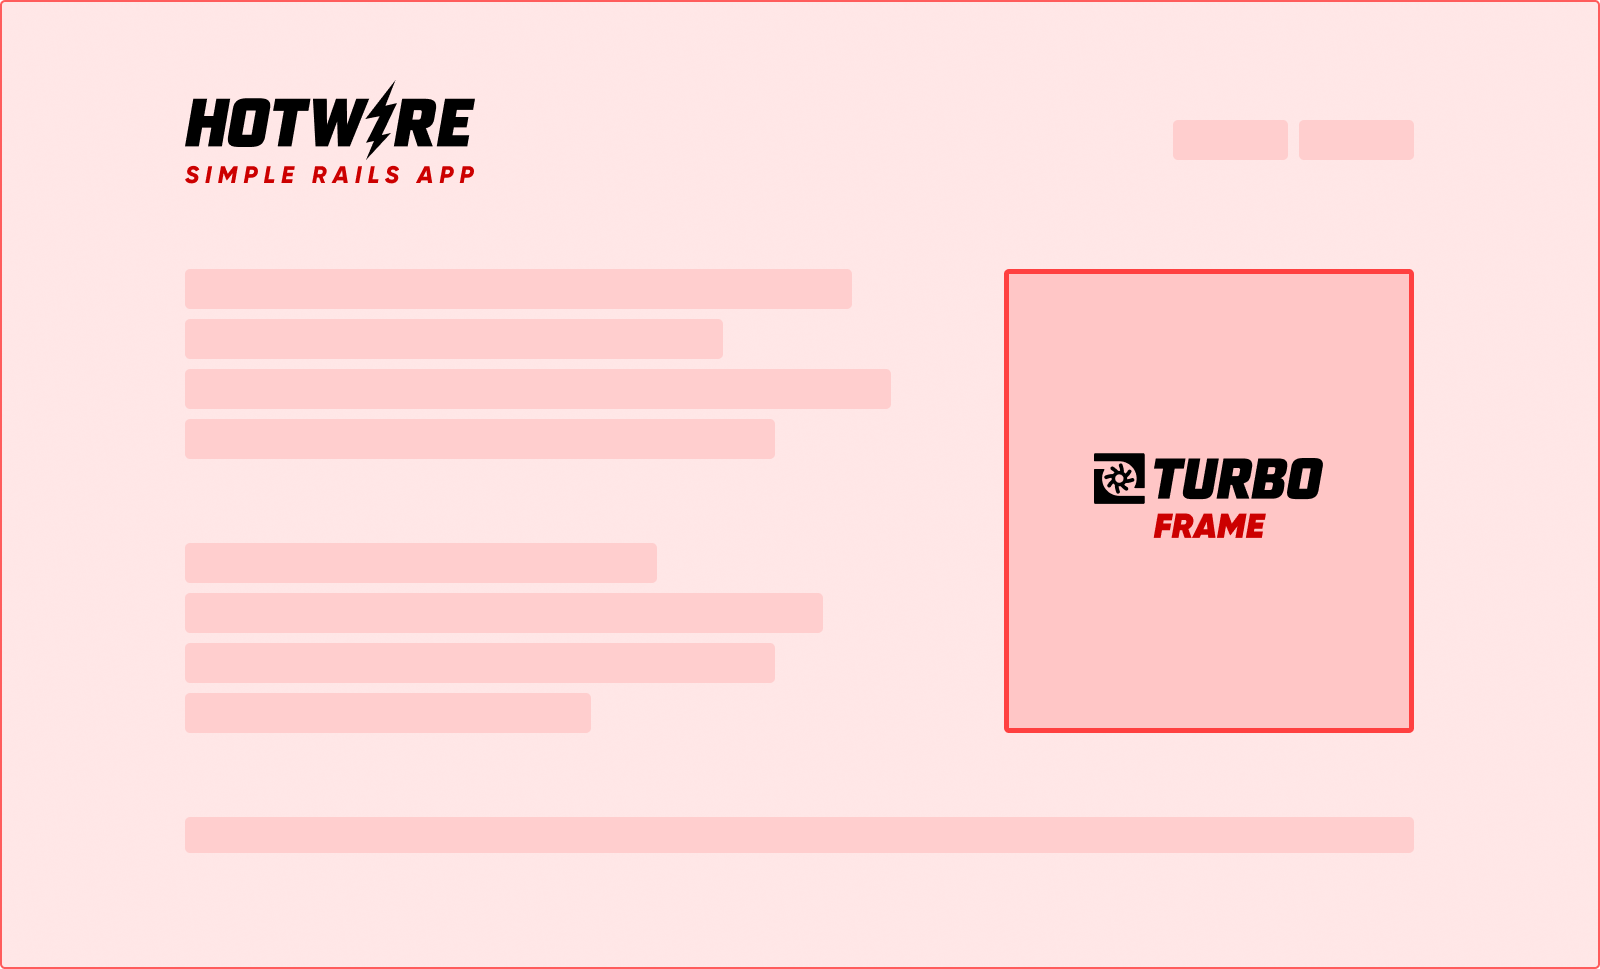
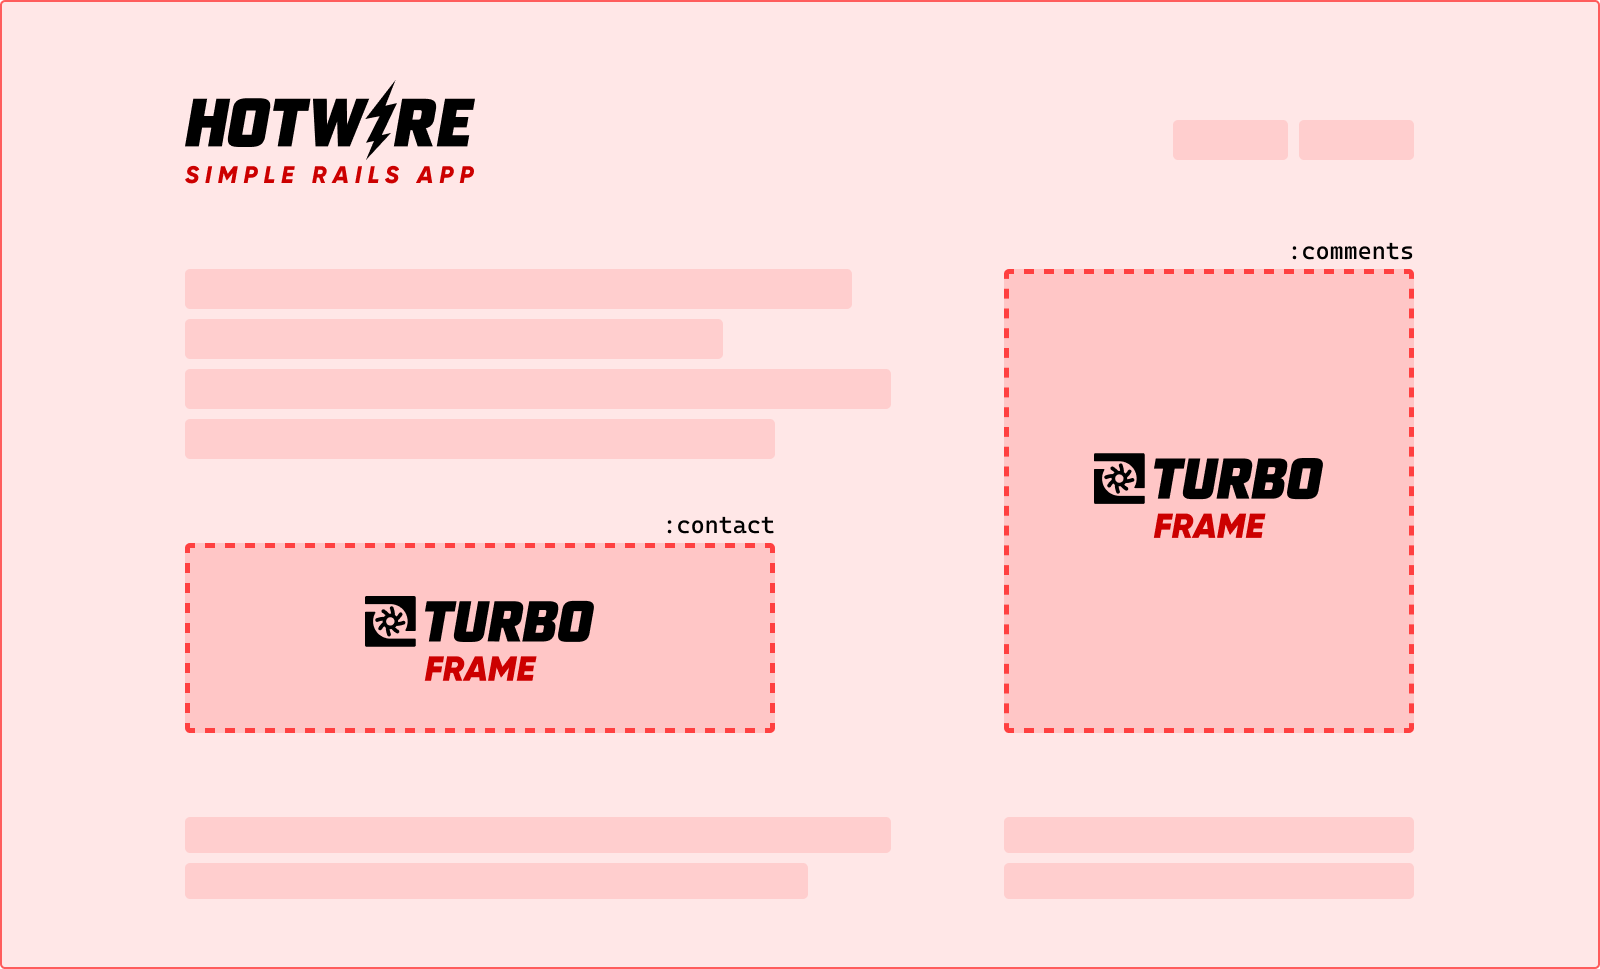
Almost finish the article

diff --git a/content/blog/my-thoughts-on-using-turbo-with-rails/index.md b/content/blog/my-thoughts-on-using-turbo-with-rails/index.md
@@ -5,7 +5,7 @@ description: I want to share my views on using Turbo with Rails.
 thumbnail: "./thumbnail.jpg"
 author: "Maciej Biel"
 authorPhoto: "./author.jpg"
-readTime: "5"
+readTime: "13"
 ---
 
 I started using Turbo with Rails half a year ago. I implemented Turbo in two of my projects (side and commercial one) and I have some initial thoughts about it.
@@ -31,15 +31,24 @@ If we want to update only a part of the page or add some interactivity, we need 
 
 ## What Turbo is?
 
-Turbo is a small and simple JavaScipt library, which consists of three major parts.
+<br>
 
-### Turbo Drive
-
-Turbo Drive is a main part of Turbo. Take a look at the flowchart below.
+![Hotwire logos](./hotwire.png)
 
 <br>
 
-![MPA](./turbo-drive.png)
+
+The frontend in **Rails** from version 7 is closely integrated with three JavaScript libraries: [**Turbo**](https://turbo.hotwired.dev/), [**Stimulus**](https://stimulus.hotwired.dev/) and [**Strada**](https://strada.hotwired.dev/), which all combined are called [**Hotwire**](https://hotwired.dev/). They are developed and maintained by [37signals](https://dev.37signals.com/).
+
+**Turbo** is a small and simple JavaScipt library, which consists of three major parts.
+
+### Turbo Drive
+
+[Turbo Drive](https://turbo.hotwired.dev/handbook/drive) is a main part of Turbo. Take a look at the flowchart below.
+
+<br>
+
+![Turbo Drive](./turbo-drive.png)
 
 <br>
 
@@ -56,13 +65,15 @@ Browsing **GitHub repositories** is a great example of a Turbo Drive in action (
 
 ### Turbo Frames
 
+[Turbo Frames](https://turbo.hotwired.dev/handbook/frames) are related to the client side.
+
 When using Turbo Drive, by default it replaces the entire `<body>` with each response. We are not limited to this behavior, because thanks to Turbo Frames we can:
 - Decompose our page and **replace smaller parts of the page** wrapped with frames.
 - Defer **load of a page** from our application inside the frame.
 
 <br>
 
-![MPA](./turbo-frame.png)
+![Turbo Frame](./turbo-frame.png)
 
 <br>
 
@@ -77,14 +88,14 @@ Turbo uses custom HTML element `<turbo-frame>` to define a frame.
 </turbo-frame>
 ```
 
-ERB syntax example:
+ERB syntax example.
 ```ruby
 <%= turbo_frame_tag :comments, src: comments_path(@post) do %>
   <%= t(".loading") %>
 <% end %>
 ```
 
-It all comes down to the **ID's** from the **DOM**.
+It all comes down to the **IDs** from the **DOM**.
 
 Each DOM element must have a **unique ID**. If the ID matches with the ID of Turbo Frame from server response, some actions by Turbo can be performed, like replacing or appending the content (more on actions later).
 
@@ -92,27 +103,239 @@ Turbo offers a wide range of **customizations for Turbo Frames**, whether the wh
 
 ### Turbo Streams
 
+[Turbo Streams](https://turbo.hotwired.dev/handbook/streams) are related to the server side.
+
+Turbo Stream is a **response from the server**, which contains one or more `<turbo-frame>` tags. Consider this as a set of changes to the DOM, which Turbo will perform.
+
+<br>
+
+![MPA](./turbo-stream.png)
+
+<br>
+
+Turbo offers seven possible **actions**: `append`, `prepend`, `replace`, `update`, `remove`, `before`, `after`.
+
+#### Turbo Stream in Rails
+
+Let's assume that we have a `SurveysController` controller and we have created a new poll using the `#create` method.
+
+Rails offers a convenient way to respond to different formats. On the client side, Turbo attaches a header `Accept: text/vnd.turbo-stream.html` to the request, so the server can respond to it with a Turbo Stream.
 ```ruby
-<%= turbo_stream.remove "request-#{@friend_request.id}" %>
+# app/controllers/surveys_controller.rb
 
-<%= turbo_stream.update :flash,
-                        partial: "shared/dash_flash" %>
+...
 
-<%= turbo_stream.update :outgoing_requests,
-                        partial: "friend_requests/outgoing_requests",
-                        locals: { outgoing: @outgoing } %>
-
-<%= turbo_stream.update :dash_pagination,
-                        partial: "shared/dash_pagination",
-                        locals: { pagy: @pagy_outgoing } %>
+respond_to do |format|
+  format.turbo_stream
+  format.html do
+    redirect_to survey_path, flash: { success: t(".success") }
+  end
+end
 ```
 
-Lorem ipsum dolor sit amet, consectetur adipiscing elit. Donec auctor, nisl eget ultricies ultricies, nunc nisl ultricies nunc, quis ultricies nisl nisl eget nisl. Donec auctor, nisl eget ultricies ultricies, nunc nisl ultricies nunc, quis ultricies nisl nisl eget nisl.
+This is a Turbo stream template file `create.turbo_stream.erb` with specified actions (Rails app will automatically pick up this template file when responding as a  `turbo_stream`).
 
-### Hotwire and Rails
+The first action will render the form again with optional validation errors. The second action will replace the frame with the reCAPTCHA challange.
+```ruby
+# app/views/surveys/create.turbo_stream.erb
 
-The frontend in Rails 7+ is closely integrated with three JavaScript libraries: [**Turbo**](https://turbo.hotwired.dev/), [**Stimulus**](https://stimulus.hotwired.dev/) and [**Strada**](https://strada.hotwired.dev/), which all combined are called [**Hotwire**](https://hotwired.dev/). They are developed and maintained by [37signals](https://dev.37signals.com/).
+<%= turbo_stream.replace dom_id(@survey),
+                         partial: "form",
+                         locals: { model: @survey } %>
 
-All of them are intended to be framework agnostic, but they work best with Rails. Moreover, most of the tutorials and examples are suited for Rails.
+<%= turbo_stream.replace 'recaptcha', partial: "challange" %>
+```
 
-This is only brief explanation of Turbo, for detailed explanation and deep dive, check out [documentation](https://turbo.hotwired.dev/handbook/introduction), [this article](https://www.writesoftwarewell.com/turbo-drive-essentials/) or [this guide](https://www.hotrails.dev/turbo-rails).
+Below we can see a raw HTTP response from the server. It may contain multiple Turbo Streams with different actions and targets.
+
+On the client side, turbo does the following:
+- Looks through the whole server response.
+- Matches the turbo stream IDs from response with the IDs from the DOM.
+- Performs some actions specified by the server.
+
+Turbo will only render these frames, which match the IDs from the DOM. The rest of the targets from the response will be ignored.
+```html
+HTTP/1.1 200 OK
+Content-Type: text/vnd.turbo-stream.html
+...
+
+<!-- Regular HTML -->
+
+<turbo-stream action="replace" target="new_survey">
+  <template>
+    ...
+  </template>
+</turbo-stream>
+
+<!-- Regular HTML -->
+
+<turbo-stream action="replace" target="recaptcha">
+  <template>
+    ...
+  </template>
+</turbo-stream>
+```
+
+#### Broadcasting live updates
+
+Turbo also allows us to broadcast live changes to the multiple subscribers using [Action Cable](https://guides.rubyonrails.org/action_cable_overview.html).
+
+It works the same as previous server response with set of Turbo Stream actions, but instead of responding to the request from the client, the server itself broadcasts the Turbo Stream to all subscribers over the WebSocket connection.
+
+Example Rails Model with callback to broadcast the Turbo Stream.
+```ruby
+class SurveyOption < ApplicationRecord
+  ...
+  after_create_commit -> {
+    broadcast_append_to(
+      "survey_options",
+      partial: "survey_options/option",
+      locals: { option: self },
+      target: "survey_options"
+    )
+  }
+  ...
+end
+```
+
+### More on Turbo
+
+All of the libraries from the Hotwire are intended to be framework agnostic, but they work best with **Rails**. Moreover, most of the tutorials and examples are suited for Rails.
+
+This is only brief explanation of how Turbo works. For detailed explanation and deep dive, check out [documentation](https://turbo.hotwired.dev/handbook/introduction), [this article](https://www.writesoftwarewell.com/turbo-drive-essentials/) and [this guide](https://www.hotrails.dev/turbo-rails).
+
+## What I like about Turbo?
+
+### Single Codebase
+
+**We don't need to write a separate frontend application**. This is the most important strength of Turbo combined with other libraries from Hotwire.
+
+Turbo **works out of the box** with new and existing Rails applications and requires very little configuration. Is significantly **saves a lot of time** and reduces effort for the developer or the team.
+
+It also may save a lot of money for the client, because we don't need to hire a separate frontend developers - a few backend developers can do the same job (of course, if they like to get hands dirty with CSS).
+
+###  Less JavaScript
+
+Turbo **reduces amounts of JavaScript code**, because we don't need to write custom code for fetching data and updating the DOM. Sometimes it is necessary to write some custom JavaScript code, but the [**Stimulus**](https://stimulus.hotwired.dev/) framework is designed to solve this problem. It works very well with Turbo.
+
+### Maintainability
+
+Single codebase also leads to easier **maintenance** and **deployment** of the application. We don't need to worry about lots of the outdated NPM packages and other dependencies in the frontend application after some time.
+
+### Interactivity
+
+Turbo allows us to create a web application, which may kinda feel like SPA, but without the complexity of the SPA. This is not easy to achieve and requires some skill and experience with the frontend, Turbo and Rails, but it is possible and can be done.
+
+As an example I will show you a piece from my side project, where in the user posts, I was able to implement infinite scrolling, likes, adding, editing and deleting comments without full page reload.
+
+Without Turbo or some javascript framework, this would be impossible to implement.
+
+<br>
+
+![MPA](./post-turbo.png)
+
+<br>
+
+With a little help of Stimulus, I can even trigger toast messages from the server side, which feels like SPA. This is actually very cool.
+
+<br>
+
+![MPA](./toast.png)
+
+<br>
+
+
+`create.turbo_stream.erb`
+```ruby
+...
+
+<%= turbo_stream.update :dash_toast,
+                        partial: "shared/dash_toast",
+                        locals: {
+                          message: t(".toast.success"),
+                          icon: "success"
+                        } %>
+```
+
+`app/views/shared/_dash_toast.html.erb`
+```ruby
+<div
+  data-controller="show-toast"
+  data-message="<%= message %>"
+  data-icon="<%= icon %>">
+</div>
+```
+
+`app/javascript/controllers/show_toast_controller.js`
+```javascript
+export default class extends Controller {
+  connect() {
+    Toast.fire({
+      icon: this.element.dataset.icon || "info",
+      text: this.element.dataset.message,
+    }).then((result) => {
+      if (result.isDismissed) {
+        this.element.remove();
+      }
+    });
+  }
+}
+```
+
+### Performance
+
+Turbo **improves performance** of the application, because we don't need to download the same assets over and over again. It also reduces the amount of data transferred over the network.
+
+From my experience, the [web vitals](https://web.dev/articles/vitals?hl=en) like [LCP](https://web.dev/articles/lcp?hl=en), [FID](https://web.dev/articles/fid?hl=en), [CLS](https://web.dev/articles/cls?hl=en) measured by the [PageSpeed Insights](https://pagespeed.web.dev/) or [Lighthouse](https://developer.chrome.com/docs/lighthouse/overview?hl=en) are on a very good level (90+ score on the performance). You can measure these metrics be yourself by testing [HEY](https://www.hey.com/) or [Basecamp](https://basecamp.com/), which are both build with Hotwire.
+
+If there are any problems with frontend performance, it is probably some bad optimization on the backend side, rather than Turbo itself.
+
+Turbo will not be as fast as newest combinations of Next.js with Server Components, SSR and SSG deployed on Vercel, but with efficent optimizations, the core web vitals can be on a very good level.
+
+## What I don't like about Turbo?
+
+### Lack of component libraries
+
+Ecosystems like React, Vue or Angular have a tons of component libraries, which you can very easily intergrate with your application and they speed up the development process a lot.
+
+This is not the case with Hotwire (Turbo + Stimulus). The only reasonable component library is [Stimulus Components](https://www.stimulus-components.com/), which is more like a selective collection of basic components, rather than a full featured component library. You have to often look over the Internet for some custom vanilla js components.
+
+Maybe there are some component libraries for Hotwire, and I am not aware of them, let me know if you know any and I am wrong.
+
+### Learning curve
+
+The concept behind Turbo is simple and documentation is not long to read and understand, but when I was trying to use Turbo at the beginning I was so pissed of how magical it is 😂 and I couldn't move forward becase the unexpected things were happening all the time.
+
+Due to this initial lack of understanding, I've been thinking all the time that Turbo instead of speeding up my work, it's slowing it down twice as much, and I was considering about giving up on it and going back to the SPA with React or Angular.
+
+It took me some time to understand how the Turbo Streams interact with the Turbo Frames and DOM elements, but to be honest, sometimes I am still struggling with it.
+
+But I think this is normal in Rails world. A lot of magic happens at the beginning and it does not speed up the work, but after some practise and experience, it starts to pay off and make things done faster.
+
+### Handling UI mostly by yourself
+
+Turbo gives you only the fundamentals to communicate with the server and update the DOM without writing a lot of custom JavaScript code.
+
+Let's say we want to implement a simple contact form. You have to handle the UI events like disabling the button after submitting the form, displaying flash messages, clearing the form after successful submission, etc. by yourself - on the client and server side.
+
+Dealing with these UI events and changes is easier with form libraries like React Hook Form or Angular Reactive Forms in frontend frameworks, but in Rails we still have an advantage of single codebase and single place to manage the state of the application.
+
+You need to have well-thought-out code and application structure, both in terms of UI and file structure. You also need the skills to navigate through them efficiently.
+
+### Many partials and Stimulus controllers
+
+Working with Turbo leads to extracting a lot of partials for Turbo Streams and creating a lot of Stimulus controllers to control the behavior and clean up the DOM after the Turbo Stream actions.
+
+This may quickly lead to a lot of mess in the code and without proper organization and good understanding of Rails conventions, it may be hard to maintain in the future.
+
+### Overall UX of apps built with Turbo
+
+This is probably topic to discuss, but I have a feeling, that even though apps with Turbo are very close to have SPA-like experience, but they are a little sluggish and these interactions with the user are with a little delay and not as smooth as in SPA.
+
+This may be a skill issue and I am wrong, but a well written app in modern frontend framework feels blazing fast when compared to the app with Turbo.
+
+## Summary
+
+Overall Hotwire with Turbo is very cool alternative approach for modern frontend development, and when working solo as a "Reinassance Developer" this is a ultimate powerful tool.
+
+I like it and I will continue to learn and use it. Hotwire is not a silver bullet and it is not for everyone, but it is worth to try it out when you are working with Rails.
